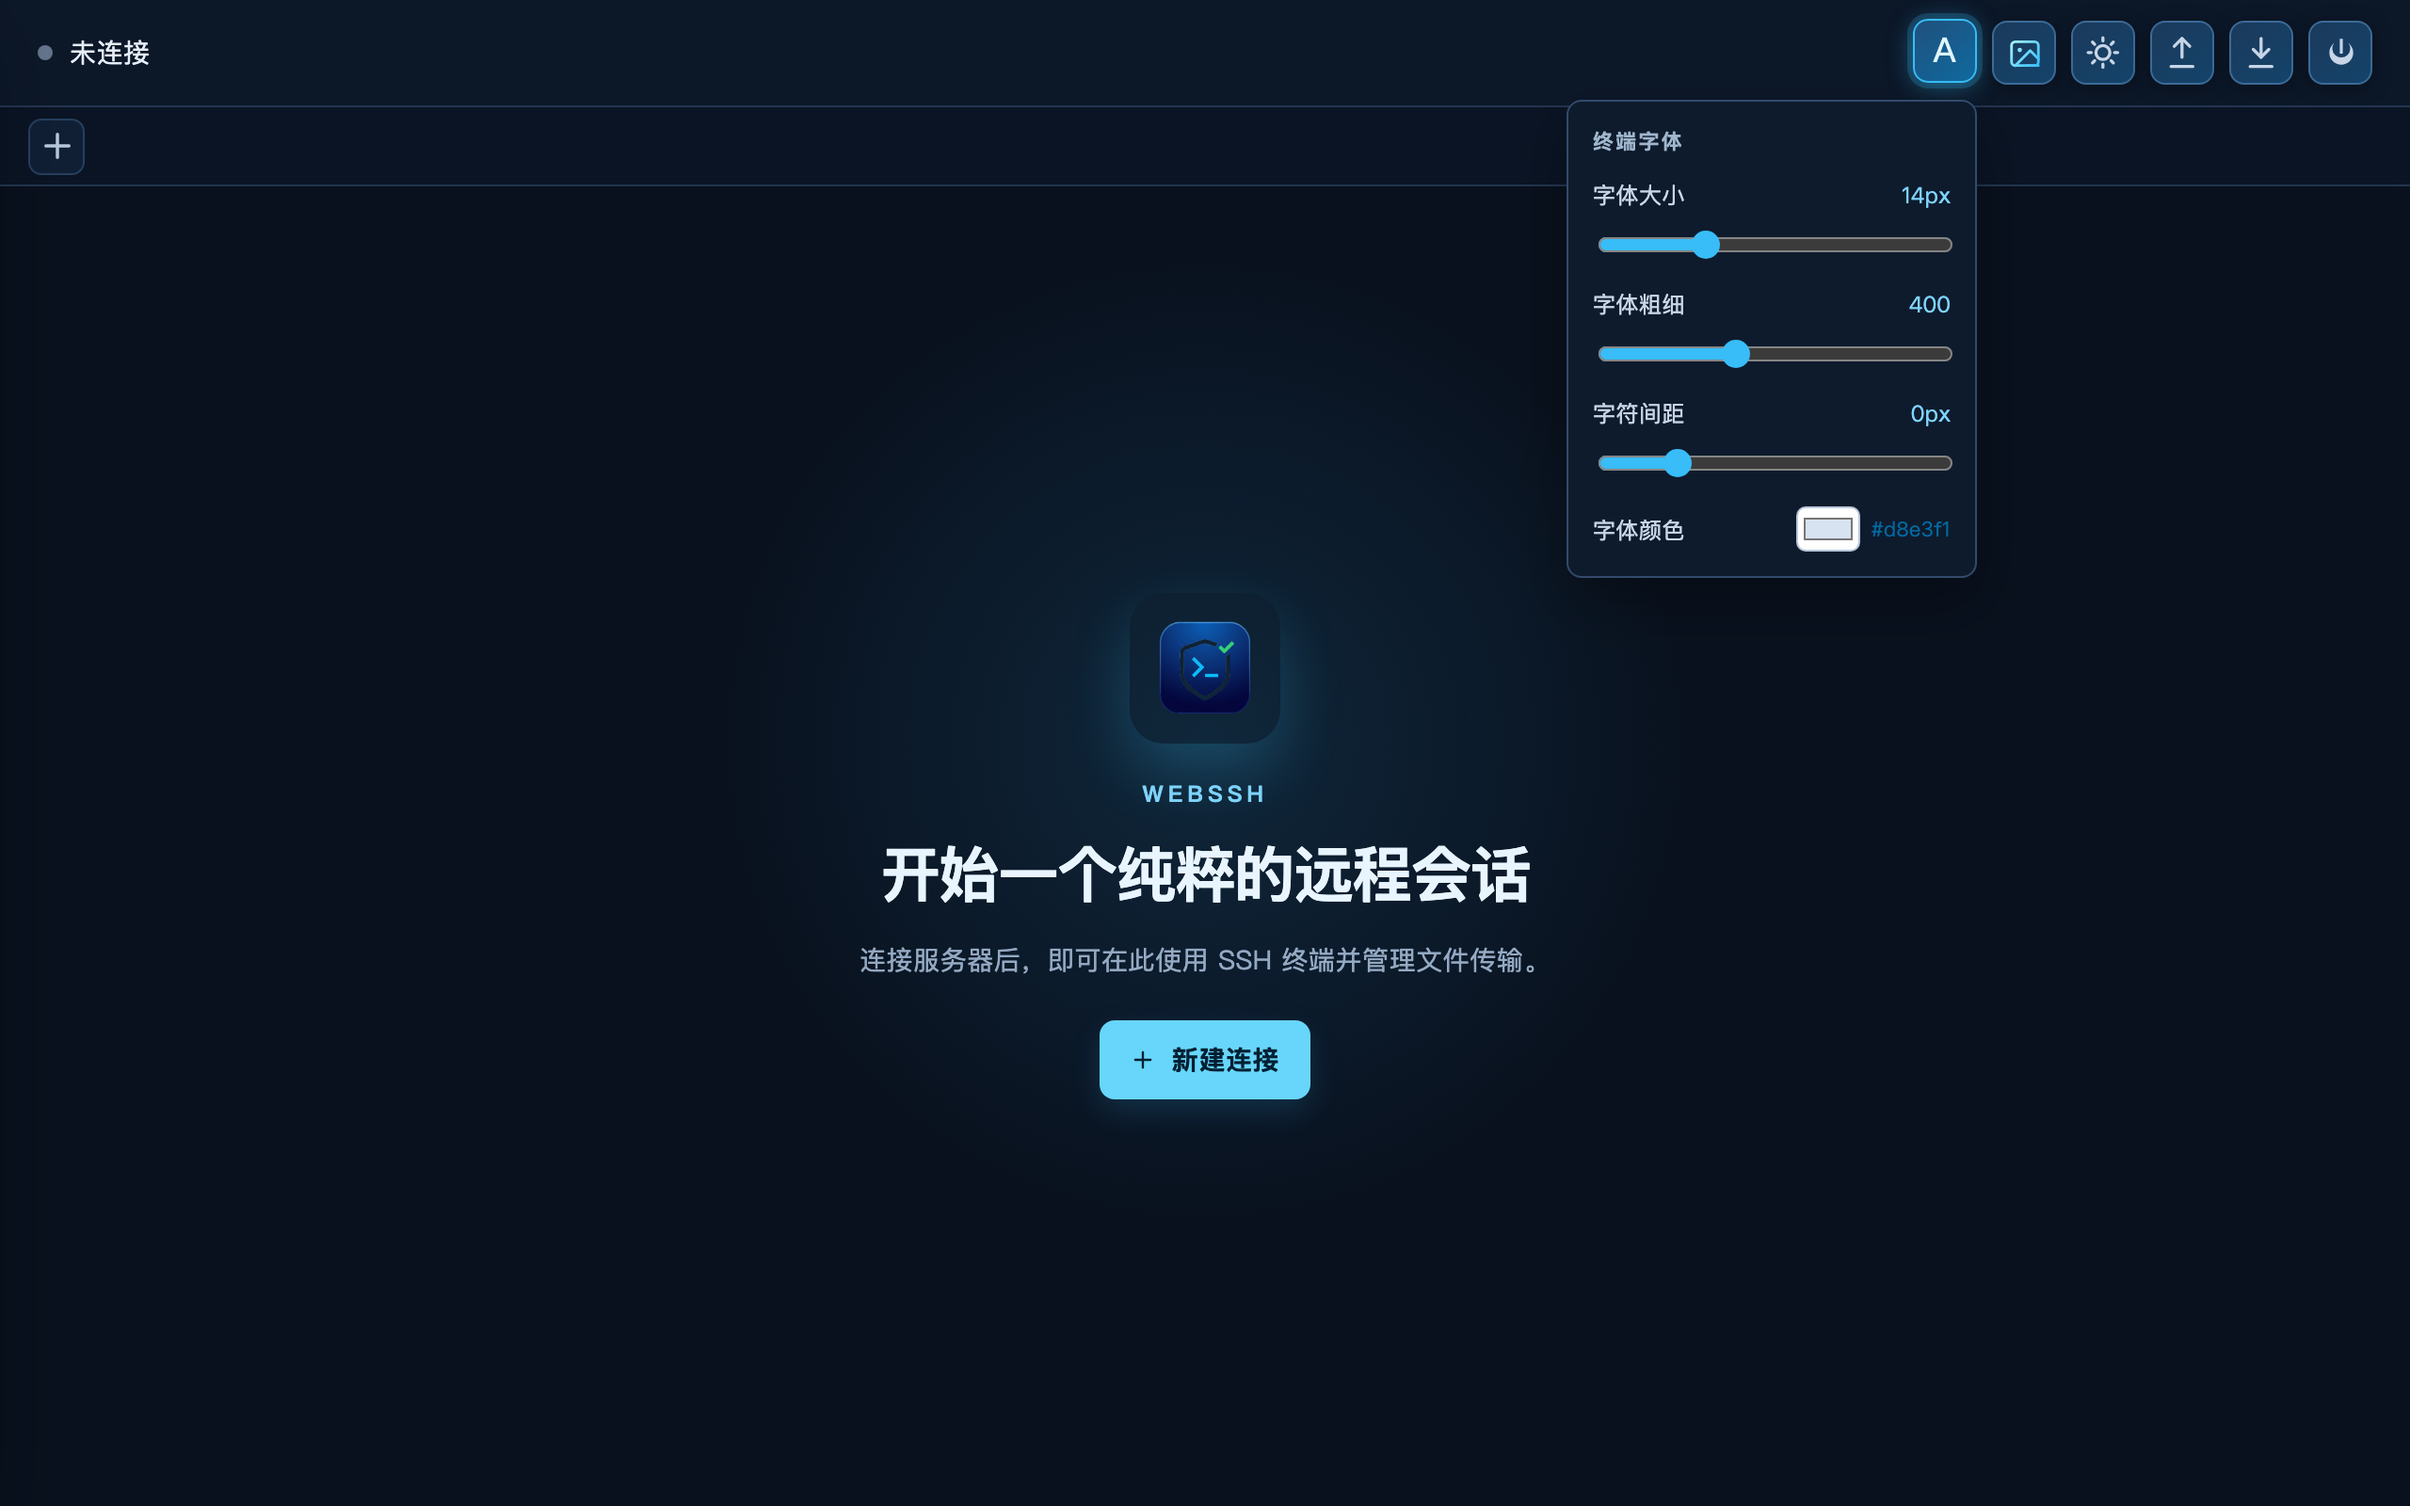
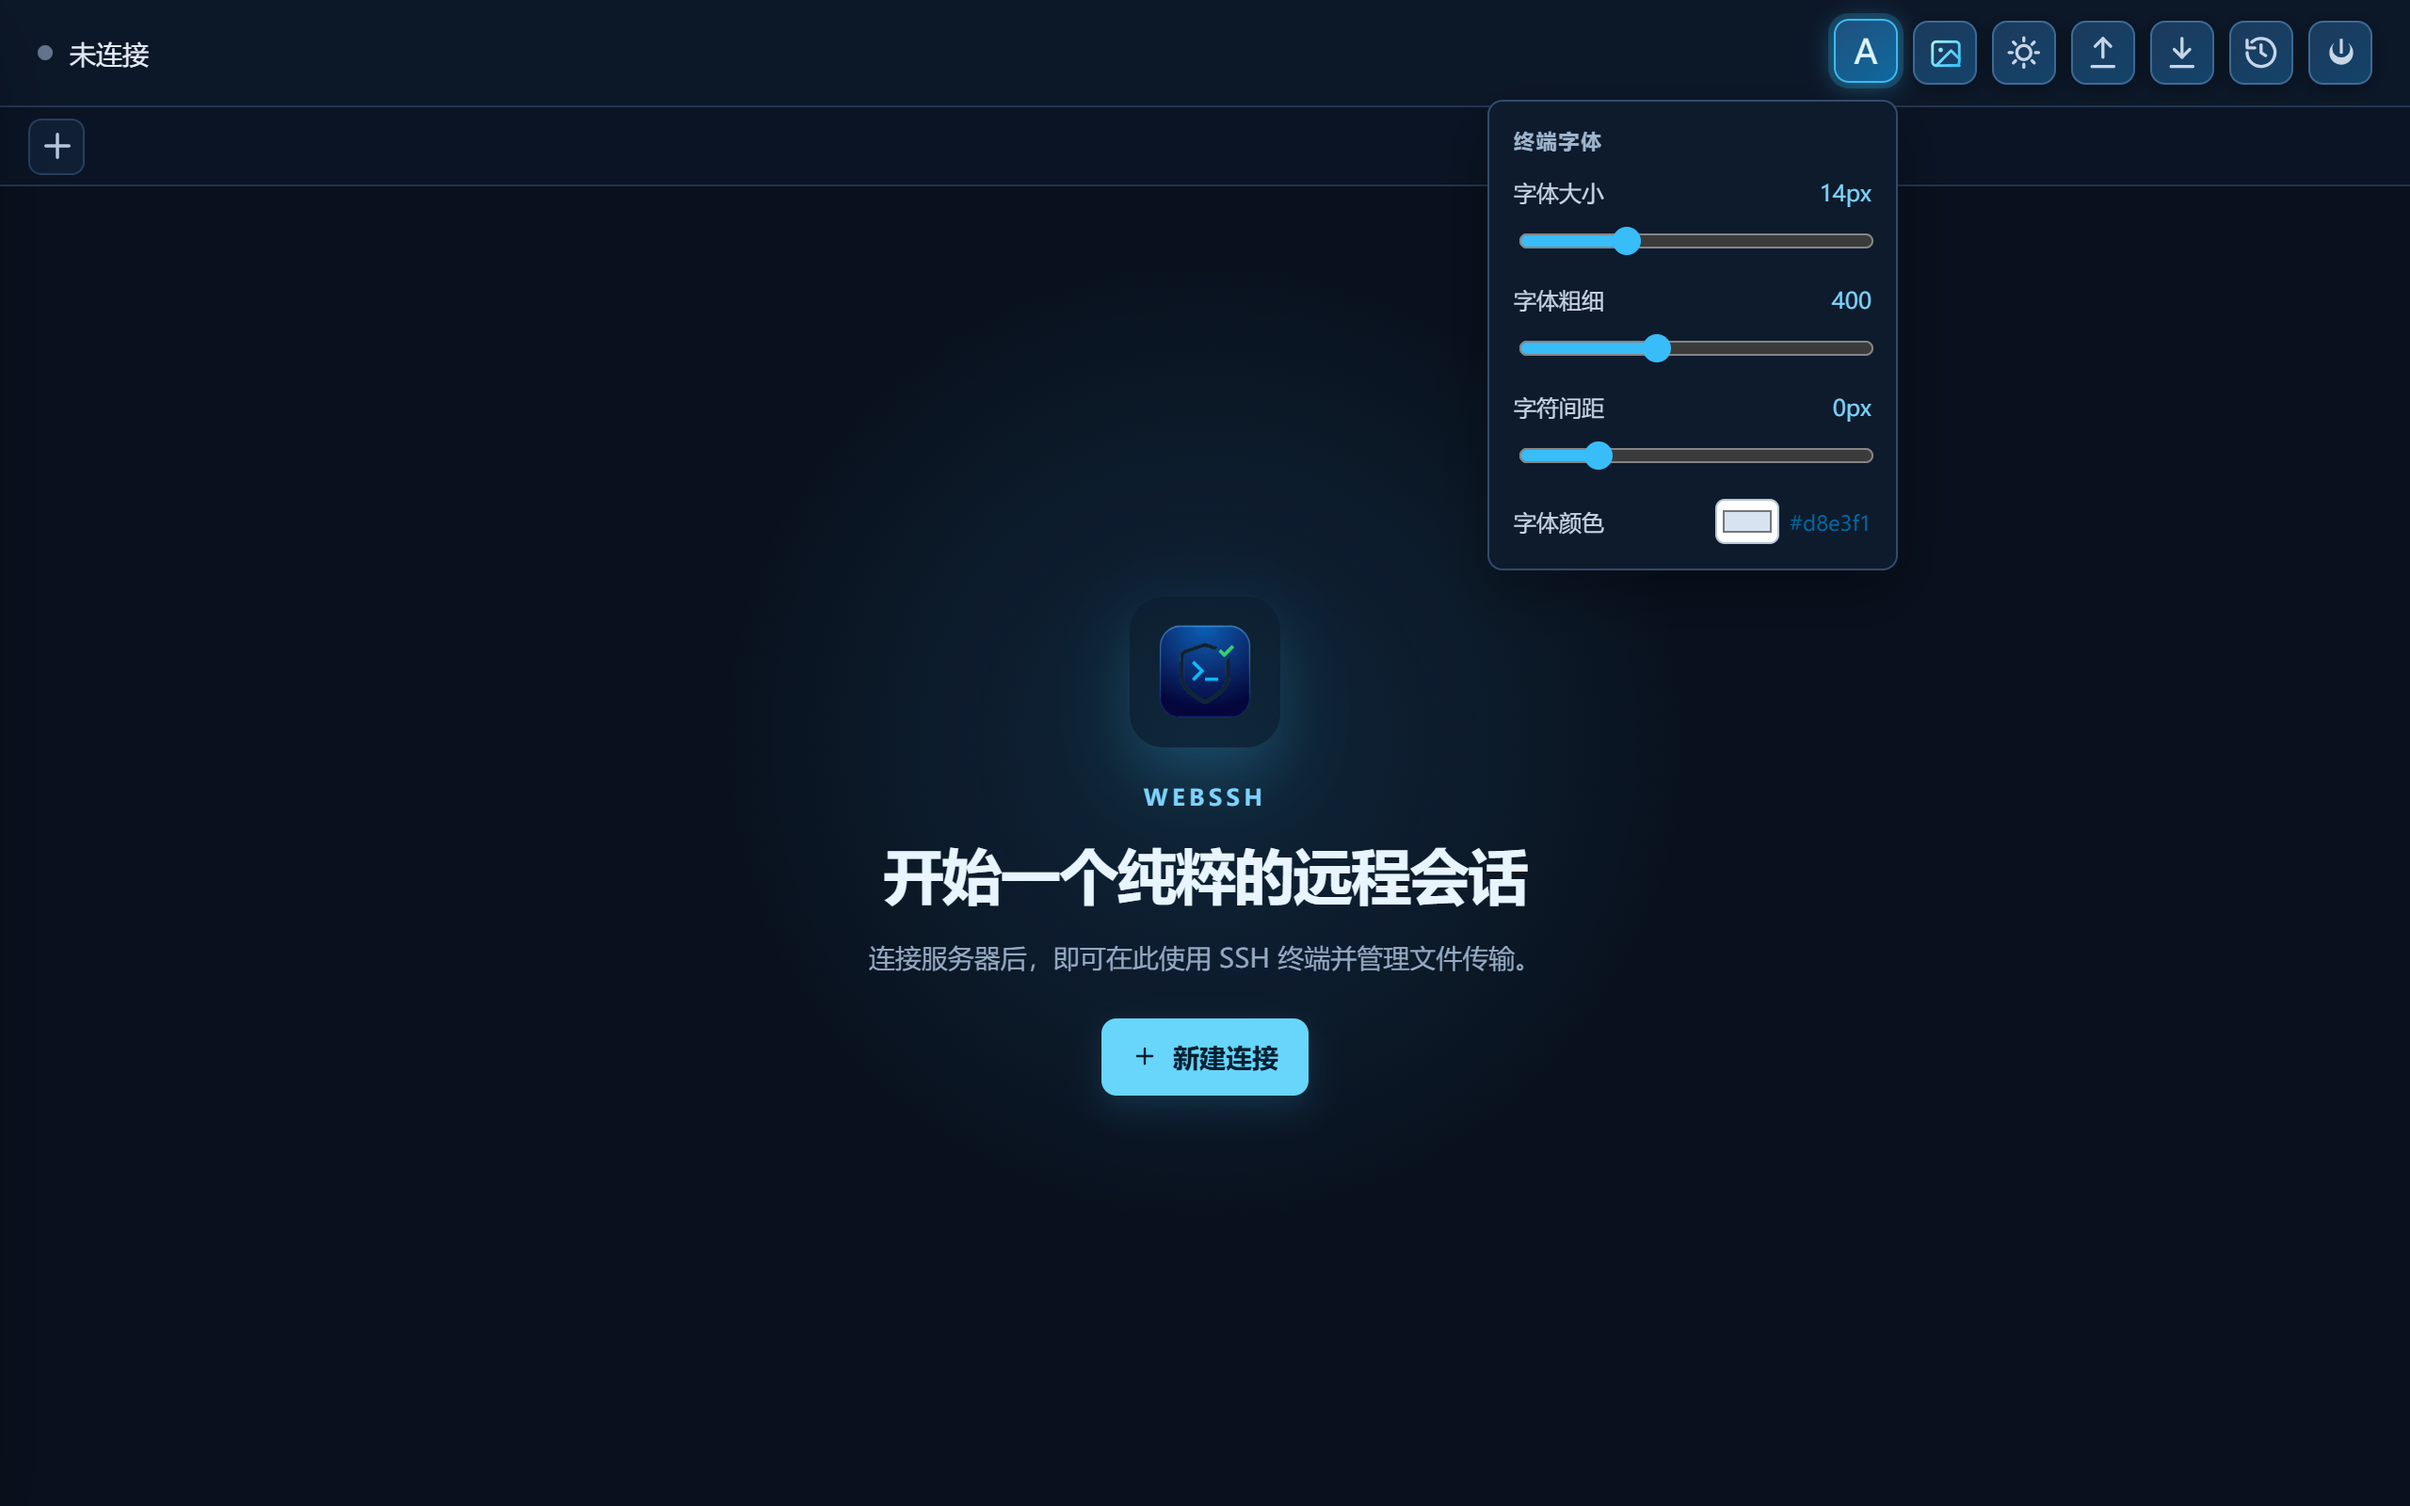
docs: 更新产品界面截图

diff --git a/README.md b/README.md
@@ -153,6 +153,8 @@ npm run dev
 - 历史最多保留 200 条，会保存在本机；设备由多人共用时，请在交接前清理敏感记录
 - 未完成、取消或失败的传输不会出现在历史中
 
+![传输历史](docs/screenshots/10-transfer-history.png)
+
 ---
 
 ## 🎨 个性化设置
